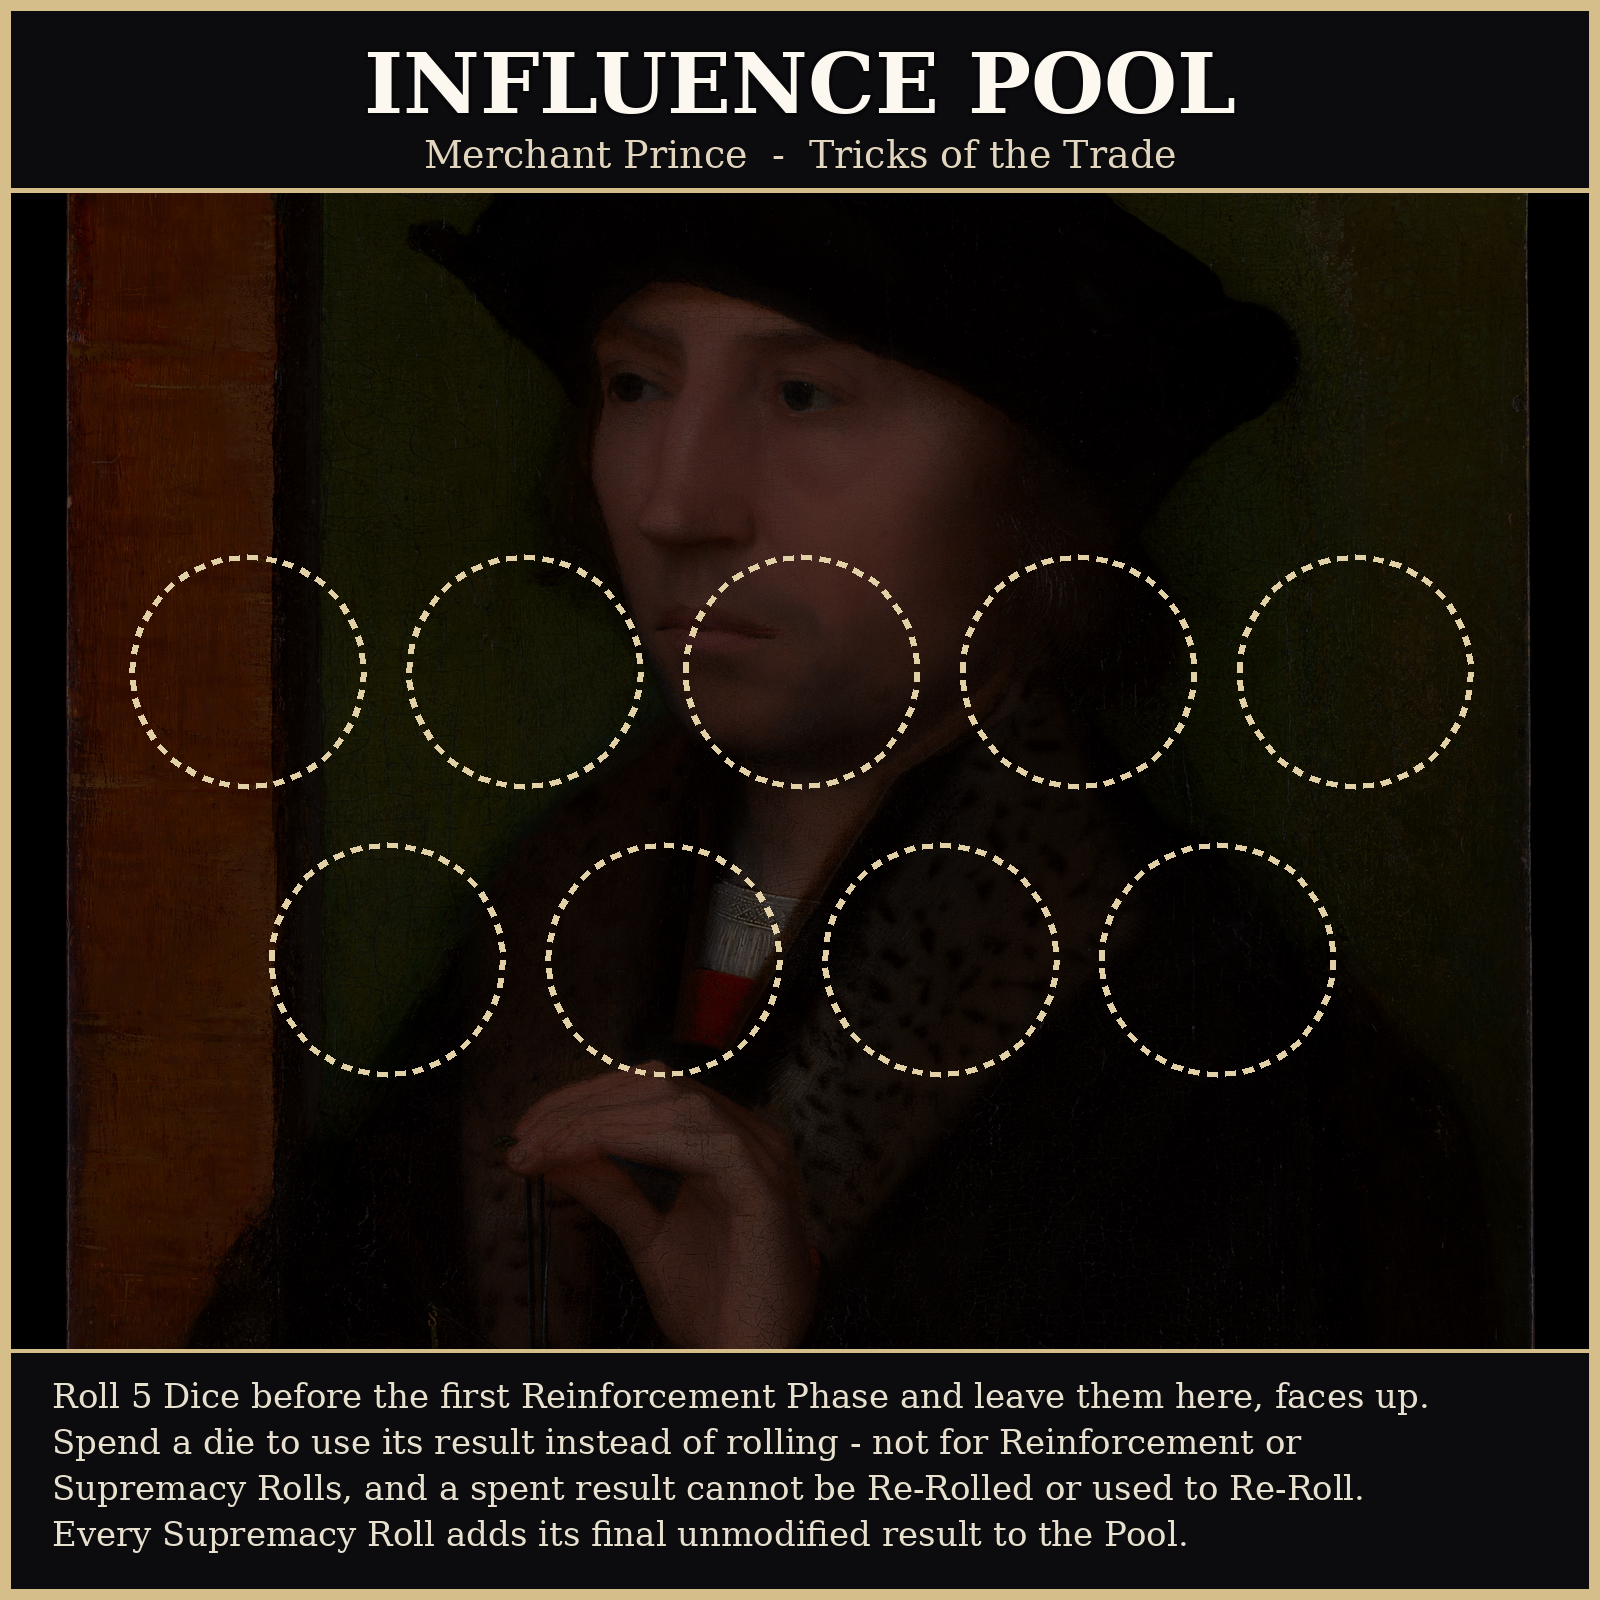
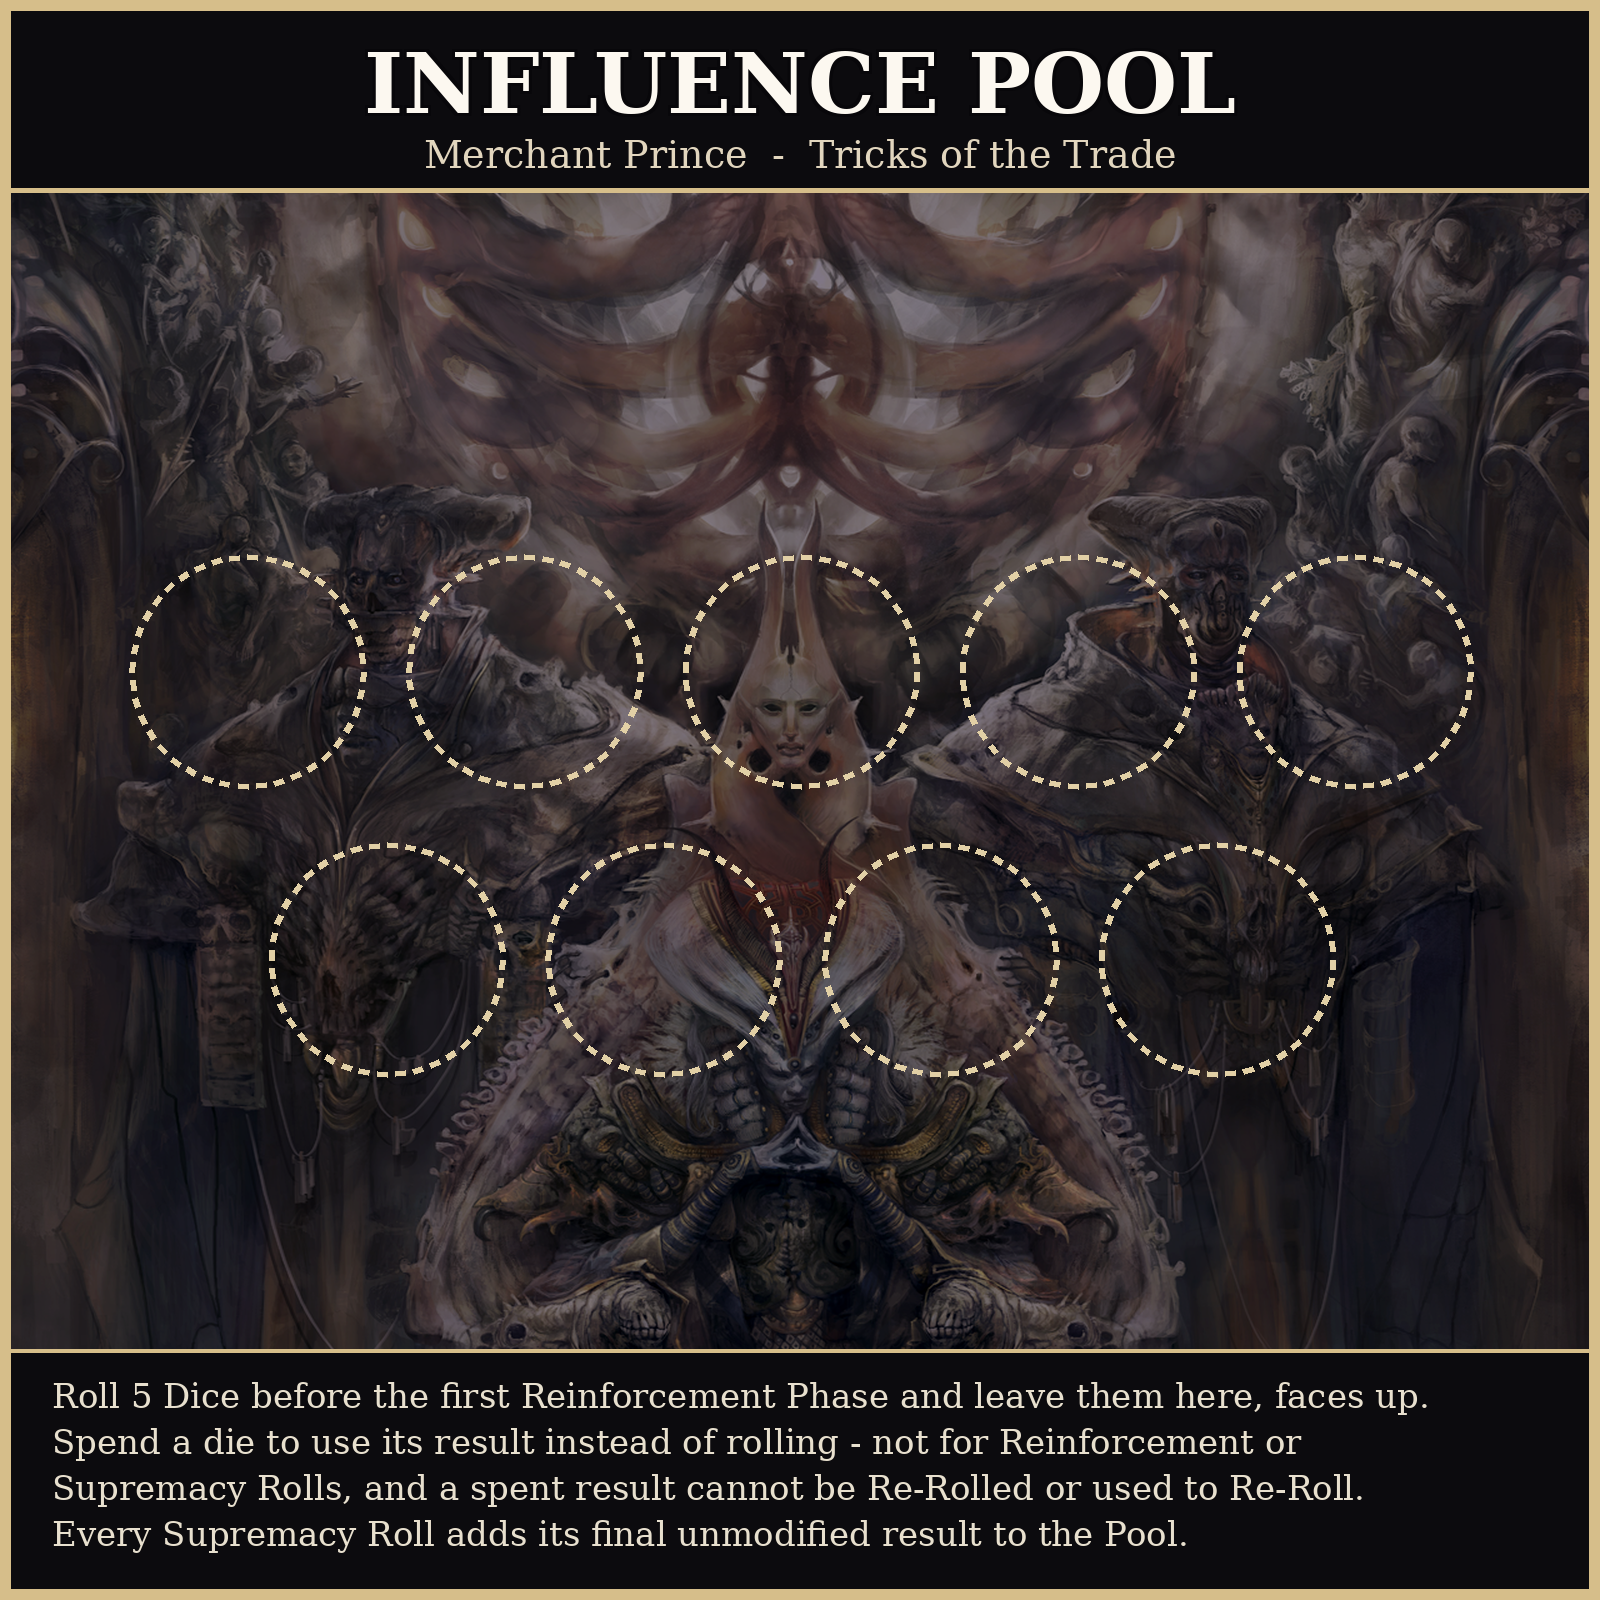
Spires boards use the faction's own art (#9)
Gallery paintings were the wrong register for a bio-engineered alien faction. Both
boards now use plates from the Spires army book: the battlefield scene under
Observation, since tokens come from Regiments being destroyed, and the enthroned
court figure under Influence, which is about presiding and trading.

Drops the two Met sources that are no longer used.

diff --git a/README.md b/README.md
@@ -57,8 +57,10 @@ rider per cult quadrant. All Met Open Access (CC0):
 | Autumn | *Autumn Landscape with a Flock of Turkeys* | Jean-François Millet |
 | Winter | *Red School House (Country Scene)* | George Henry Durrie |
 | War / Famine / Death / Conquest | *The Four Horsemen, from The Apocalypse* | Albrecht Dürer |
-| Spires Observation Pool | *Antoine Laurent Lavoisier and His Wife* | Jacques Louis David |
-| Spires Influence Pool | *Man Weighing Gold* | Adriaen Isenbrant |
+
+The Spires pool boards use the faction's own artwork from its army book rather than
+gallery paintings — a bio-engineered alien faction looked wrong under Renaissance
+portraiture. That art is © Para Bellum, covered by the provenance note below.
 
 Copies in `seasons/` and `horsemen/` are reduced from the originals — enough to
 regenerate the boards, not archival masters.
